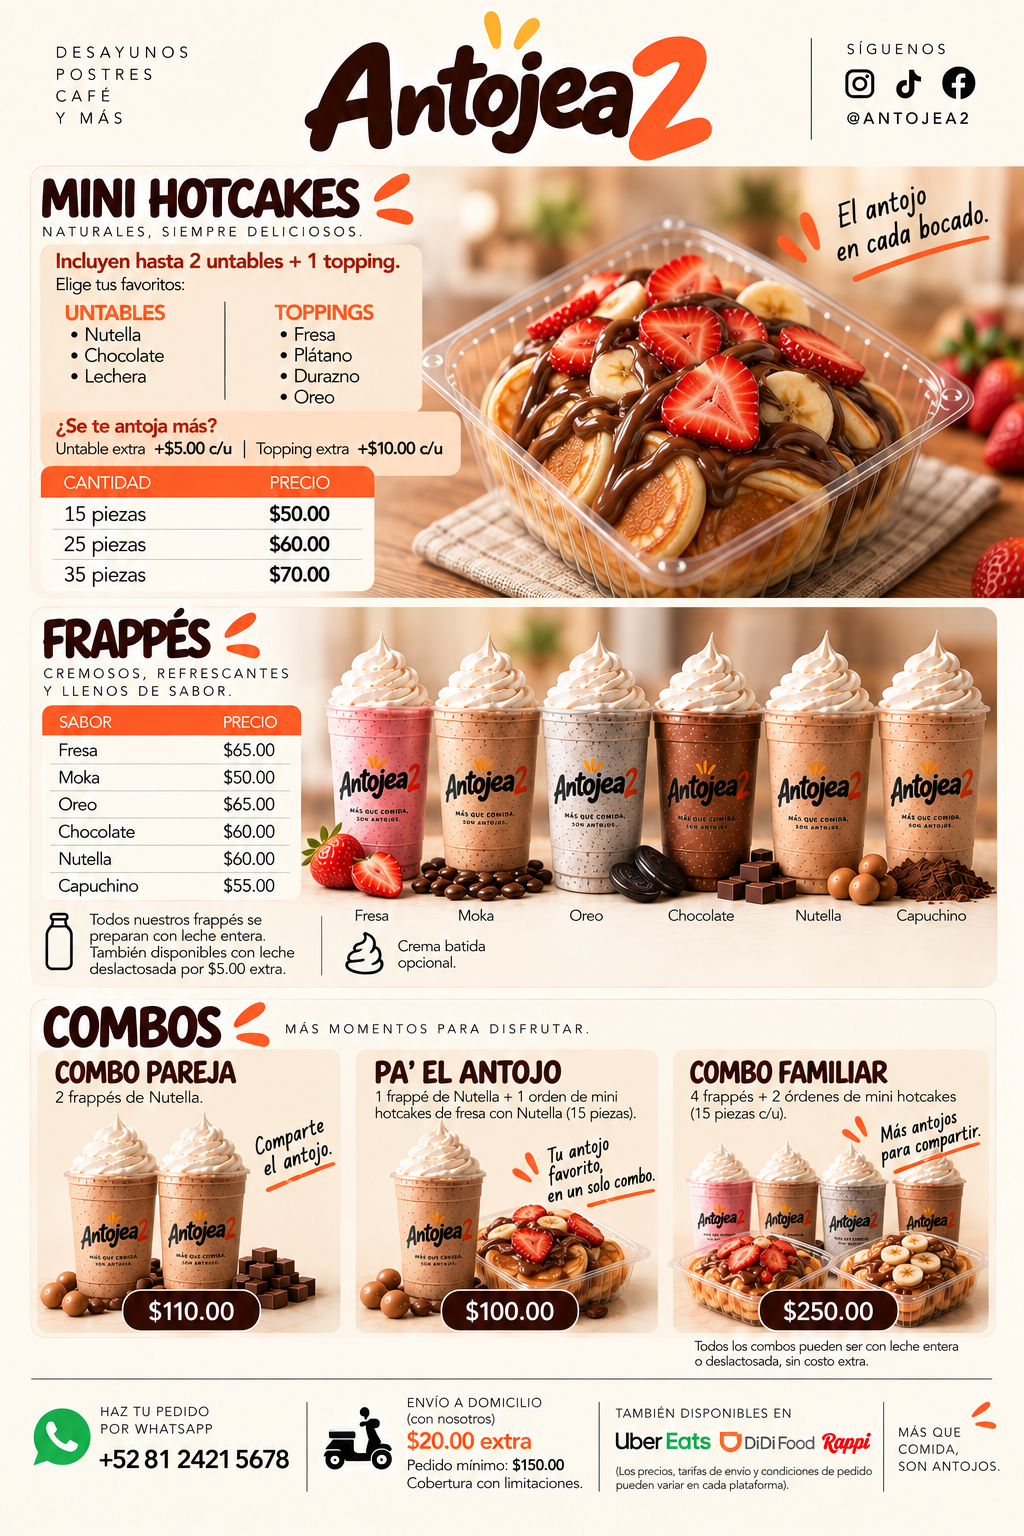
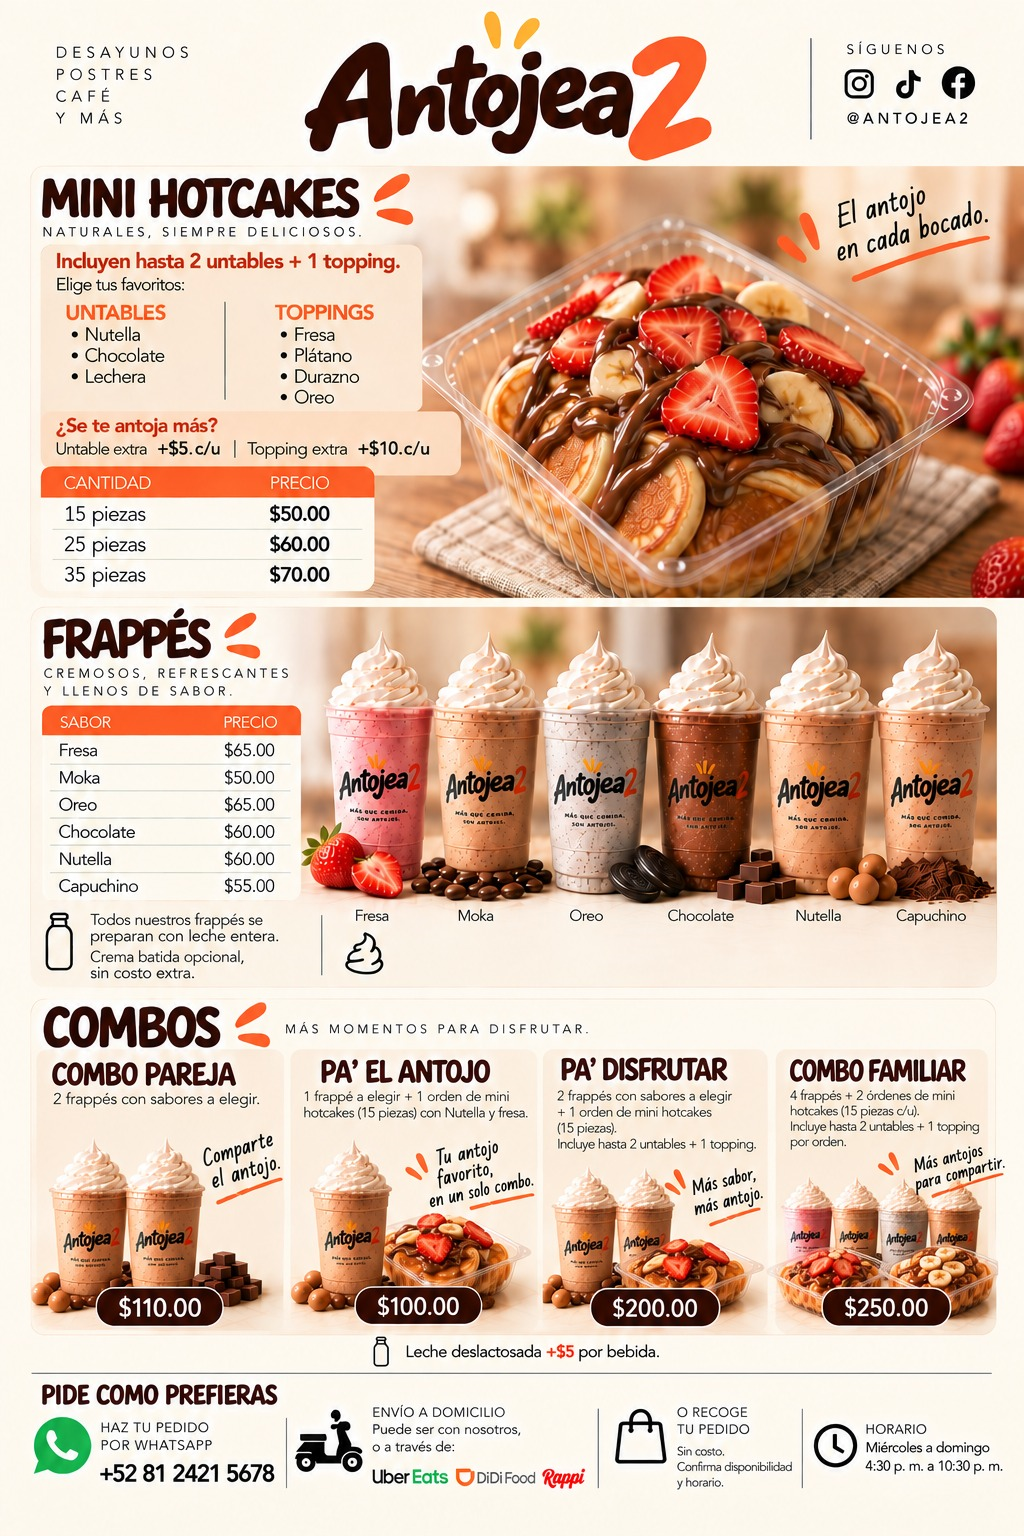
Refactor code structure for improved readability and maintainability

diff --git a/assets/js/products.js b/assets/js/products.js
@@ -6,19 +6,19 @@ const CATEGORIES = [
   { id: "frappes", name: "Frappés" }
 ];
 
-// Pareja y Pa’l Antojo: sabores a elegir, deslactosada +$5 por bebida.
+// Todos los combos: sabores a elegir, deslactosada +$5 por bebida.
 const FLAVORS = ["Fresa", "Moka", "Oreo", "Chocolate", "Nutella", "Capuchino"];
 const SPREADS = ["Nutella", "Chocolate", "Lechera"];
 const TOPPINGS = ["Fresa", "Plátano", "Durazno", "Oreo"];
 const choices = (names, price = 0) => names.map((name, index) => ({ id: String(index), name, additionalPrice: price }));
 
-function frappeOptions(prefix = "drink", section = "Tu frappé", combo = false, chooseFlavor = false) {
+function frappeOptions(prefix = "drink", section = "Tu frappé", chooseFlavor = false) {
   const groups = [];
   if (chooseFlavor) groups.push({ id: `${prefix}-flavor`, section, name: "Sabor", type: "single", required: true, choices: choices(FLAVORS) });
   groups.push(
     { id: `${prefix}-milk`, section, name: "Leche", type: "single", required: true, default: "whole", choices: [
       { id: "whole", name: "Entera", additionalPrice: 0 },
-      { id: "lactose-free", name: "Deslactosada", additionalPrice: combo ? 0 : 5 }
+      { id: "lactose-free", name: "Deslactosada", additionalPrice: 5 }
     ] },
     { id: `${prefix}-cream`, section, name: "Crema batida", type: "single", required: true, default: "with", choices: [
       { id: "with", name: "Con crema", additionalPrice: 0 },
@@ -45,7 +45,7 @@ function hotcakeOptions(prefix = "hotcakes", section = "Tus mini hotcakes", fixe
 const FRAPPE_OPTIONS = frappeOptions();
 const HOTCAKE_OPTIONS = hotcakeOptions();
 const FAMILY_OPTIONS = [
-  ...Array.from({ length: 4 }, (_, index) => frappeOptions(`drink-${index + 1}`, `Frappé ${index + 1}`, true, true)).flat(),
+  ...Array.from({ length: 4 }, (_, index) => frappeOptions(`drink-${index + 1}`, `Frappé ${index + 1}`, true)).flat(),
   ...hotcakeOptions("hotcakes-1", "Mini hotcakes 1 · 15 piezas"),
   ...hotcakeOptions("hotcakes-2", "Mini hotcakes 2 · 15 piezas")
 ];
@@ -59,17 +59,22 @@ const PRODUCTS = [
   { id: "FR-NUT", category: "frappes", name: "Frappé de Nutella", description: "Leche y crema batida a tu gusto.", price: 60, image: "../assets/img/products/frappes/nutella.webp", available: true, options: FRAPPE_OPTIONS },
   { id: "FR-CAP", category: "frappes", name: "Frappé de Capuchino", description: "Leche y crema batida a tu gusto.", price: 55, image: "../assets/img/products/frappes/capuchino.webp", available: true, options: FRAPPE_OPTIONS },
   { id: "HC-15", category: "hotcakes", name: "Mini hotcakes · 15 piezas", description: "Incluyen hasta 2 untables y 1 topping.", price: 50, image: "../assets/img/products/hotcakes/nutella-fresa.webp", available: true, options: HOTCAKE_OPTIONS },
-  { id: "HC-25", category: "hotcakes", name: "Mini hotcakes · 25 piezas", description: "Incluyen hasta 2 untables y 1 topping.", price: 60, image: "../assets/img/products/hotcakes/nutella-fresa.webp", available: true, options: HOTCAKE_OPTIONS },
-  { id: "HC-35", category: "hotcakes", name: "Mini hotcakes · 35 piezas", description: "Incluyen hasta 2 untables y 1 topping.", price: 70, image: "../assets/img/products/hotcakes/nutella-fresa.webp", available: true, options: HOTCAKE_OPTIONS },
+  { id: "HC-25", category: "hotcakes", name: "Mini hotcakes · 25 piezas", description: "Incluyen hasta 2 untables y 1 topping.", price: 60, image: "../assets/img/products/hotcakes/nutella-fresa-25-35.webp", available: true, options: HOTCAKE_OPTIONS },
+  { id: "HC-35", category: "hotcakes", name: "Mini hotcakes · 35 piezas", description: "Incluyen hasta 2 untables y 1 topping.", price: 70, image: "../assets/img/products/hotcakes/nutella-fresa-25-35.webp", available: true, options: HOTCAKE_OPTIONS },
   { id: "CO-PAR", category: "combos", name: "Combo pareja", description: "2 frappés con sabores a elegir. Deslactosada +$5 por bebida.", price: 110, image: "../assets/img/combos/pareja.webp", available: true, options: [
-    ...frappeOptions("drink-1", "Frappé 1", false, true),
-    ...frappeOptions("drink-2", "Frappé 2", false, true)
+    ...frappeOptions("drink-1", "Frappé 1", true),
+    ...frappeOptions("drink-2", "Frappé 2", true)
   ] },
   { id: "CO-ANT", category: "combos", name: "Pa’l Antojo", description: "1 frappé a elegir + 15 mini hotcakes con Nutella y fresa. Deslactosada +$5.", price: 100, image: "../assets/img/combos/pa-el-antojo.webp", available: true, options: [
-    ...frappeOptions("drink", "Tu frappé", false, true),
+    ...frappeOptions("drink", "Tu frappé", true),
     ...hotcakeOptions("hotcakes", "Mini hotcakes · 15 piezas", true)
   ] },
-  { id: "CO-FAM", category: "combos", name: "Combo familiar", description: "4 frappés + 2 órdenes de 15 mini hotcakes.", price: 250, image: "../assets/img/combos/familiar.webp", available: true, options: FAMILY_OPTIONS }
+  { id: "CO-DIS", category: "combos", name: "Pa’ Disfrutar", description: "2 frappés a elegir + 15 mini hotcakes con hasta 2 untables y 1 topping. Deslactosada +$5 por bebida.", price: 200, image: "../assets/img/combos/pa-disfrutar.webp", available: true, options: [
+    ...frappeOptions("drink-1", "Frappé 1", true),
+    ...frappeOptions("drink-2", "Frappé 2", true),
+    ...hotcakeOptions("hotcakes", "Mini hotcakes · 15 piezas")
+  ] },
+  { id: "CO-FAM", category: "combos", name: "Combo familiar", description: "4 frappés + 2 órdenes de 15 mini hotcakes. Deslactosada +$5 por bebida.", price: 250, image: "../assets/img/combos/familiar.webp", available: true, options: FAMILY_OPTIONS }
 ];
 
 /* Para agregar productos, copia una entrada y usa un id único.

diff --git a/terminos/index.html b/terminos/index.html
@@ -14,7 +14,7 @@
 <main id="contenido" class="wrap information-page"><h1>Términos y condiciones</h1>
 <section><h2>Promociones</h2><p>Válidas hasta agotar existencias. Sin restricciones adicionales de días u horarios distintos a los del negocio.</p></section>
 <section><h2>Combos y personalización</h2>
-<ul><li>Pareja: dos frappés; cada uno puede ser de cualquiera de los sabores disponibles. Leche deslactosada: $5 adicionales por bebida.</li><li>Pa’l Antojo: un frappé de cualquier sabor disponible y 15 mini hotcakes con Nutella y fresa. Leche deslactosada: $5 adicionales.</li><li>Familiar: conserva sus opciones actuales; la leche deslactosada está incluida.</li><li>Puedes elegir con o sin crema batida, sin recargo.</li><li>Mini hotcakes personalizables: hasta dos untables y un topping incluidos. Untable extra: $5 por porción; topping extra: $10.</li></ul></section>
+<ul><li>Pareja: dos frappés; cada uno puede ser de cualquiera de los sabores disponibles. Leche deslactosada: $5 adicionales por bebida.</li><li>Pa’l Antojo: un frappé de cualquier sabor disponible y 15 mini hotcakes con Nutella y fresa. Leche deslactosada: $5 adicionales.</li><li>Pa&#8217; Disfrutar: dos frappés de cualquier sabor disponible y una orden de 15 mini hotcakes con hasta dos untables y un topping.</li><li>Familiar: cuatro frappés de cualquier sabor disponible y dos órdenes de 15 mini hotcakes, cada una con hasta dos untables y un topping.</li><li>En todos los combos, la leche deslactosada cuesta $5 adicionales por bebida.</li><li>Puedes elegir con o sin crema batida, sin recargo.</li><li>Mini hotcakes personalizables: hasta dos untables y un topping incluidos. Untable extra: $5 por porción; topping extra: $10.</li></ul></section>
 <section><h2>Pedidos, horarios y entrega</h2><p>Atendemos miércoles a domingo, de 4:30 p. m. a 10:30 p. m. Los precios están en MXN y son vigentes hasta nuevo aviso. Las condiciones pueden variar en plataformas de delivery.</p>
 <p>Durante el horario de atención, Lo antes posible contempla aproximadamente 45 minutos para envío a domicilio; no es una garantía. La hora y disponibilidad se confirman al aceptar el pedido.</p>
 <p>Puedes solicitar horarios cada 35 minutos dentro del horario de atención, para hoy y los cuatro días siguientes. Los días cerrados y horarios pasados no se ofrecen. Programar una solicitud no garantiza disponibilidad.</p>

diff --git a/menu/index.html b/menu/index.html
@@ -36,7 +36,7 @@
     </nav>
     <section id="menu-view" aria-label="Menú en imagen" class="menu-viewer" hidden>
       <div class="viewer-toolbar" aria-label="Controles del menú" hidden id="viewer-controls">
-        <span class="viewer-caption">Imagen de referencia: consulta sabores, opciones y condiciones vigentes en Armar pedido.</span>
+        <span class="viewer-caption">Menú actualizado · Amplía para leer.</span>
         <button type="button" id="zoom-out" aria-label="Reducir menú">−</button>
         <output id="zoom-label" aria-live="polite">100%</output>
         <button type="button" id="zoom-in" aria-label="Ampliar menú">+</button>
@@ -44,7 +44,7 @@
       </div>
       <div class="menu-viewport" id="menu-viewport" role="region" aria-label="Menú completo, desplázate para leerlo" tabindex="0">
         <div class="menu-sheet" id="menu-sheet" data-image-frame>
-          <img id="menu-image" src="../assets/img/menu/menu.webp" alt="Menú completo de Antojea2. Para consultar los productos en texto elige Armar pedido." width="1024" height="1536" data-fallback>
+          <img id="menu-image" src="../assets/img/menu/menu.webp?v=20260929" alt="Menú completo de Antojea2. Para consultar los productos en texto elige Armar pedido." width="1024" height="1536" data-fallback>
           <p class="image-fallback" hidden>La imagen no está disponible. Consulta los productos en Armar pedido.</p>
         </div>
       </div>

diff --git a/assets/js/config.js b/assets/js/config.js
@@ -48,7 +48,7 @@ const CONFIG = {
     embed: "https://www.openstreetmap.org/export/embed.html",
     attribution: "https://www.openstreetmap.org/copyright"
   },
-  menuImage: "assets/img/menu/menu.webp",
+  menuImage: "assets/img/menu/menu.webp?v=20260929",
   // Agregar únicamente términos reales confirmados, uno por cadena de texto.
   promotionTerms: [
     "Promociones válidas hasta agotar existencias.",

diff --git a/README.md b/README.md
@@ -58,13 +58,13 @@ El botón **Contacto** abre un diálogo con el número principal y el número pe
 
 Para reemplazar el menú usa el mismo nombre de archivo. Si cambias la ruta, actualiza `menuImage` en `config.js` y el `src` de respaldo en `menu/index.html` (este último permite verlo sin JavaScript).
 
-`assets/js/products.js` contiene las categorías y 12 productos transcritos del menú proporcionado, con precios reales vigentes hasta nuevo aviso. Edita `price`, `description`, `available` e `image` allí. `available: false` muestra “Agotado” y desactiva el botón. Mantén sincronizados el catálogo y la imagen del menú al cambiar precios o disponibilidad.
+`assets/js/products.js` contiene las categorías y 13 productos transcritos del menú proporcionado, con precios reales vigentes hasta nuevo aviso. Edita `price`, `description`, `available` e `image` allí. `available: false` muestra “Agotado” y desactiva el botón. Mantén sincronizados el catálogo y la imagen del menú al cambiar precios o disponibilidad.
 
 `options` controla los campos y precios del personalizador. Tipos: `single` para leche, crema, sabores o futuros tamaños; `multiple` para ingredientes incluidos con un máximo; `quantity` para porciones extra; `fixed` para recetas de combos. Cada opción tiene `additionalPrice`. Las rutas de imágenes son relativas a `menu/index.html`.
 
 - Frappés: leche entera o deslactosada (+$5), con o sin crema batida.
 - Mini hotcakes: hasta 2 untables y 1 topping incluidos, sin obligación de elegirlos. Las porciones extra se agregan aparte: $5 por untable y $10 por topping, incluso del mismo ingrediente ya seleccionado.
-- Pareja y el combo individual permiten elegir todos los sabores y cobran $5 por cada bebida deslactosada. Familiar conserva sus opciones y la deslactosada incluida. El combo individual mantiene hotcakes de Nutella y fresa.
+- Todos los combos permiten elegir los sabores y cobran $5 por cada bebida deslactosada, incluido Familiar. El nuevo combo incluye dos frappés y 15 mini hotcakes personalizables por $200. El combo individual mantiene hotcakes de Nutella y fresa.
 - `SPREADS`, `TOPPINGS` y `FLAVORS` centralizan los ingredientes y sabores. `frappeOptions()` y `hotcakeOptions()` generan grupos reutilizables.
 
 ## Lista y futuras compras
@@ -133,7 +133,7 @@ Clip y Mercado Pago permiten generar enlaces con una cuenta y credenciales priva
 
 promociones/ contiene los combos desde products.js; terminos/ contiene condiciones; cookies/ permite controlar el guardado. menu/#promociones conserva un acceso animado a promociones. Las animaciones respetan prefers-reduced-motion.
 
-El catálogo dinámico se muestra por defecto. La imagen histórica del menú sigue disponible con un aviso de consultar las opciones vigentes en el catálogo; reemplázala cuando tengas el diseño actualizado.
+El catálogo dinámico se muestra por defecto. El visor usa menu.webp, optimizado desde assets/img/menu/menu.jpeg. El archivo menu.png es el cartel de apertura, no el menú. Conservamos los originales; al actualizar el menú, regenera el WebP y cambia su versión en config.js y menu/index.html para evitar una imagen antigua en caché.
 
 ## Folio del pedido
 
